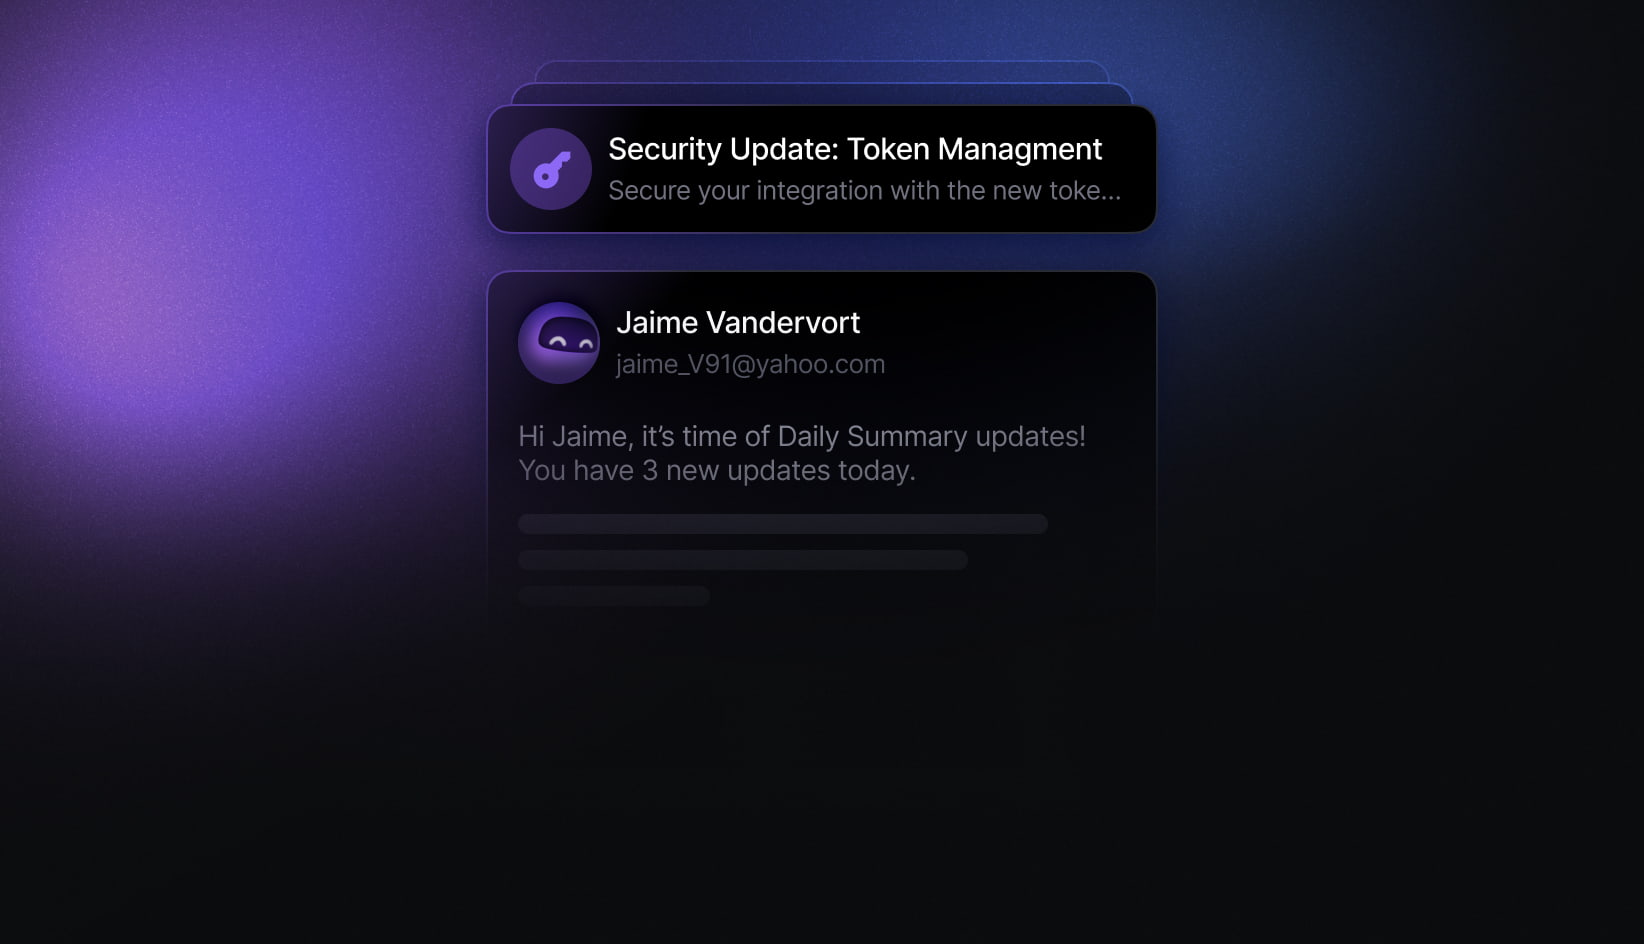
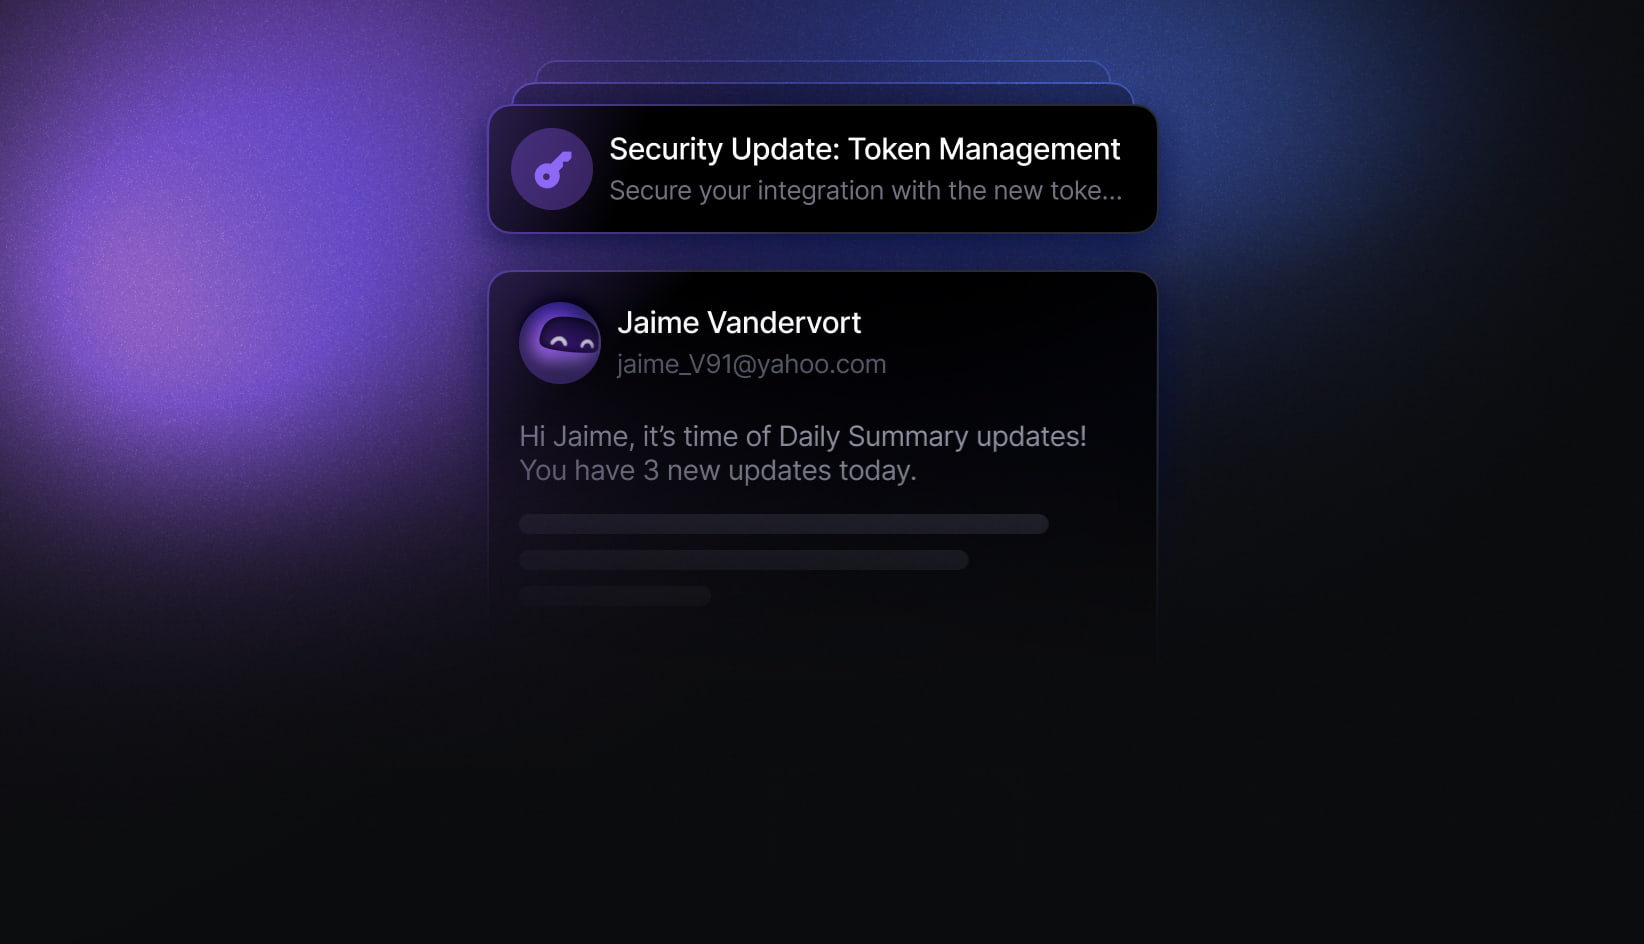
fix: copy

diff --git a/src/components/pages/home/code-with-inbox/inbox/data.ts b/src/components/pages/home/code-with-inbox/inbox/data.ts
@@ -1,3 +1,15 @@
+import aliceAvatar from "@/images/pages/home/inbox/alice.png"
+import danielAvatar from "@/images/pages/home/inbox/daniel.png"
+import evanClarkAvatar from "@/images/pages/home/inbox/evan-clark.jpg"
+import joeAvatar from "@/images/pages/home/inbox/joe-avatar.jpg"
+import johnDoeAvatar from "@/images/pages/home/inbox/john-doe.jpg"
+import oliverJamesAvatar from "@/images/pages/home/inbox/oliver-james.jpg"
+import rayAvatar from "@/images/pages/home/inbox/ray.png"
+import completeIcon from "@/svgs/pages/home/inbox/complete.svg"
+import cubeIcon from "@/svgs/pages/home/inbox/cube.svg"
+import rhombIcon from "@/svgs/pages/home/inbox/rhomb.svg"
+import yellowHalfCircleIcon from "@/svgs/pages/home/inbox/yellow-half-circle.svg"
+
 import {
   AddedIcon,
   AssignedIcon,
@@ -7,23 +19,10 @@ import {
 } from "./icons"
 import type { IInboxEntry } from "./types"
 
-import joeAvatar from "@/images/pages/home/inbox/joe-avatar.jpg"
-import johnDoeAvatar from "@/images/pages/home/inbox/john-doe.jpg"
-import oliverJamesAvatar from "@/images/pages/home/inbox/oliver-james.jpg"
-import evanClarkAvatar from "@/images/pages/home/inbox/evan-clark.jpg"
-import danielAvatar from "@/images/pages/home/inbox/daniel.png"
-import rayAvatar from "@/images/pages/home/inbox/ray.png"
-import aliceAvatar from "@/images/pages/home/inbox/alice.png"
-
-import completeIcon from "@/svgs/pages/home/inbox/complete.svg"
-import cubeIcon from "@/svgs/pages/home/inbox/cube.svg"
-import rhombIcon from "@/svgs/pages/home/inbox/rhomb.svg"
-import yellowHalfCircleIcon from "@/svgs/pages/home/inbox/yellow-half-circle.svg"
-
 const inboxData: IInboxEntry[] = [
   {
     theme: "novuDark",
-    title: "Novu dark",
+    title: "Novu Dark",
     categories: ["All", "Projects", "Announcements"],
     messages: [
       {
@@ -48,8 +47,8 @@ const inboxData: IInboxEntry[] = [
       {
         category: "Projects",
         title: "2 new comments from Radek and Dima.",
-        text: "You have 2 new comments on the Acme figma file.",
-        date: "Last Monday at 13:45 PM",
+        text: "You have 2 new comments on the Acme Figma file.",
+        date: "Last Monday at 1:45 PM",
         isRead: false,
       },
       {
@@ -74,8 +73,8 @@ const inboxData: IInboxEntry[] = [
       {
         category: "Announcements",
         title: "2 new comments from Radek and Dima.",
-        text: "You have 2 new comments on the Acme figma file.",
-        date: "Last Monday at 13:45 PM",
+        text: "You have 2 new comments on the Acme Figma file.",
+        date: "Last Monday at 1:45 PM",
         isRead: false,
       },
     ],
@@ -107,8 +106,8 @@ const inboxData: IInboxEntry[] = [
       {
         category: "Projects",
         title: "2 new comments from Radek and Dima.",
-        text: "You have 2 new comments on the Acme figma file.",
-        date: "Last Monday at 13:45 PM",
+        text: "You have 2 new comments on the Acme Figma file.",
+        date: "Last Monday at 1:45 PM",
         isRead: false,
       },
       {
@@ -133,8 +132,8 @@ const inboxData: IInboxEntry[] = [
       {
         category: "Projects",
         title: "2 new comments from Radek and Dima.",
-        text: "You have 2 new comments on the Acme figma file.",
-        date: "Last Monday at 13:45 PM",
+        text: "You have 2 new comments on the Acme Figma file.",
+        date: "Last Monday at 1:45 PM",
         isRead: false,
       },
     ],
@@ -240,7 +239,8 @@ const inboxData: IInboxEntry[] = [
         authors: [{ name: "Daniel", avatar: danielAvatar.src }],
       },
       {
-        title: "Create a new design for the hero section for improving user engagement.",
+        title:
+          "Create a new design for the hero section for improving user engagement.",
         actionType: "replied:",
         avatarIcon: RepliedIcon,
         additionalText: "Love it!",
@@ -250,7 +250,8 @@ const inboxData: IInboxEntry[] = [
         authors: [{ name: "Alice", avatar: aliceAvatar.src }],
       },
       {
-        title: "Replace current cookie-based authentication with JWT tokens for enhanced security.",
+        title:
+          "Replace current cookie-based authentication with JWT tokens for enhanced security.",
         actionType: "added you to project",
         avatarIcon: AddedIcon,
         additionalText: "",
@@ -306,7 +307,8 @@ const inboxData: IInboxEntry[] = [
         authors: [{ name: "Daniel", avatar: danielAvatar.src }],
       },
       {
-        title: "Create a new design for the hero section for improving user engagement.",
+        title:
+          "Create a new design for the hero section for improving user engagement.",
         actionType: "replied:",
         avatarIcon: RepliedIcon,
         additionalText: "Love it!",
@@ -316,7 +318,8 @@ const inboxData: IInboxEntry[] = [
         authors: [{ name: "Alice", avatar: aliceAvatar.src }],
       },
       {
-        title: "Replace current cookie-based authentication with JWT tokens for enhanced security.",
+        title:
+          "Replace current cookie-based authentication with JWT tokens for enhanced security.",
         actionType: "added you to project",
         avatarIcon: AddedIcon,
         additionalText: "",

diff --git a/src/app/(website)/(connect-footer)/page.tsx b/src/app/(website)/(connect-footer)/page.tsx
@@ -103,7 +103,7 @@ const contentData = {
         labelType: "notify" as const,
         title: "Notify",
         description:
-          "The app notify users or agents when something happens through push, email, or in-app notifications.",
+          "The app notifies users or agents when something happens through push, email, or in-app notifications.",
         key: "notify",
       },
       {
